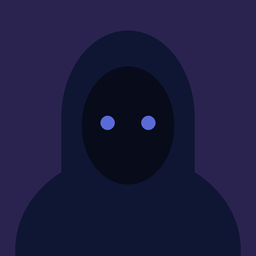
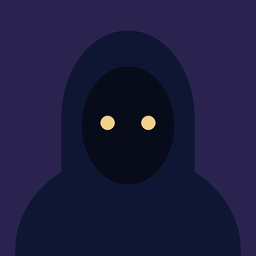
the swarm face, picked by Kuffy
Asked under owner order 'let Kuffy pick for Kuffy2 and Kuffy3'. His design, not
mine: three front-facing hoods shoulder to shoulder, centre tallest so the top
edge stays uneven, one teal light each. The distinction he built it on is the
thumbnail read -- two warm lights close together is the master, three cool
lights spread apart is the swarm.

His answer also corrected my drawing of HIM: he says his own eye-lights are warm
white/gold and I had drawn them blue-violet, which quietly destroyed the exact
contrast his design depends on. Repainted warm. His look, his call.

Changed region(s): [[0.5312, 0.4375, 0.625, 0.5312], [0.375, 0.4375, 0.4688, 0.5312]]

diff --git a/README.md b/README.md
@@ -23,8 +23,6 @@ Raw URL form:
 Missing on purpose — a face nobody picked is worse than no face, and a blank
 entry renders as Discord's default, which honestly says "not supplied yet":
 
-* **kuffy2 / kuffy3** — one shared swarm face, distinct from Kuffy's own. Kuffy
-  is picking it; he has been asked and has not answered.
 * **klaudejr** — Klaude-JR and Klaude have not agreed on one.
 * **kodex** — never supplied one.
 
